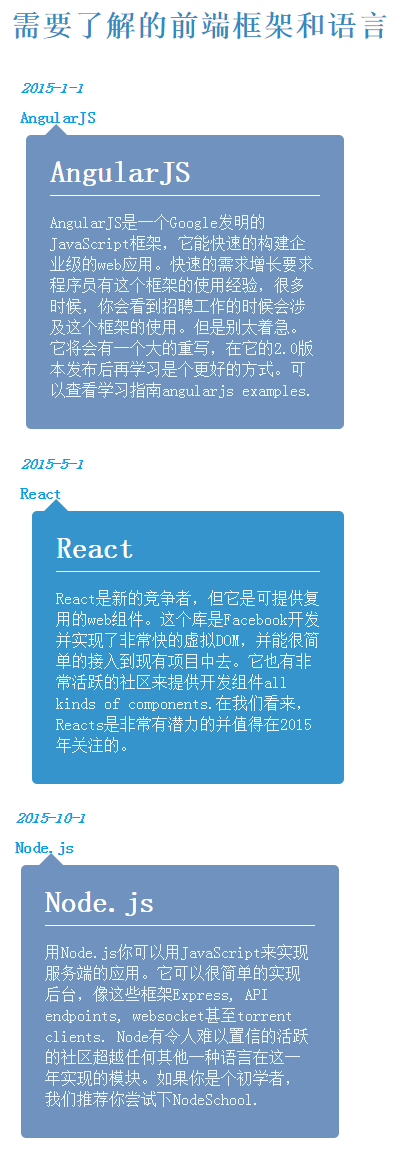
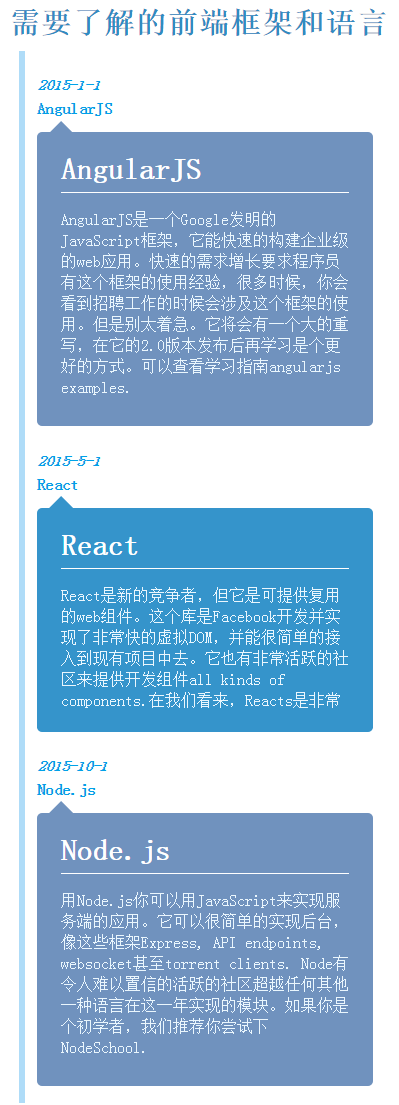
优化小屏显示效果

Changed region(s): [[0.0301, 0.0, 0.9323, 1.0], [0.2105, 0.0, 0.9624, 0.0308]]

diff --git a/src/css/main.css b/src/css/main.css
@@ -136,8 +136,17 @@ h2 em{
         float: none;
         width: auto;
         text-align: left;
-        margin-bottom: 0;
         font-size: 1.6rem;
+        margin-left: 1rem;
+        margin-bottom: .5rem;
+    }
+
+    h2 em{
+        margin-bottom: .5rem;
+    }
+
+    .area{
+        border-left: solid .5rem #AFDCF8;
     }
 
     .content-container{
@@ -157,11 +166,7 @@ h2 em{
         top: .3rem;
     }
 
-    .area:nth-child(even) .content{
-        margin-left: .5rem;
-    }
-
-    .area:nth-child(odd) .content{
-        margin-left: 1rem;
+    .area .content{
+        margin: 0 .5rem 0 1rem;
     }
 }
